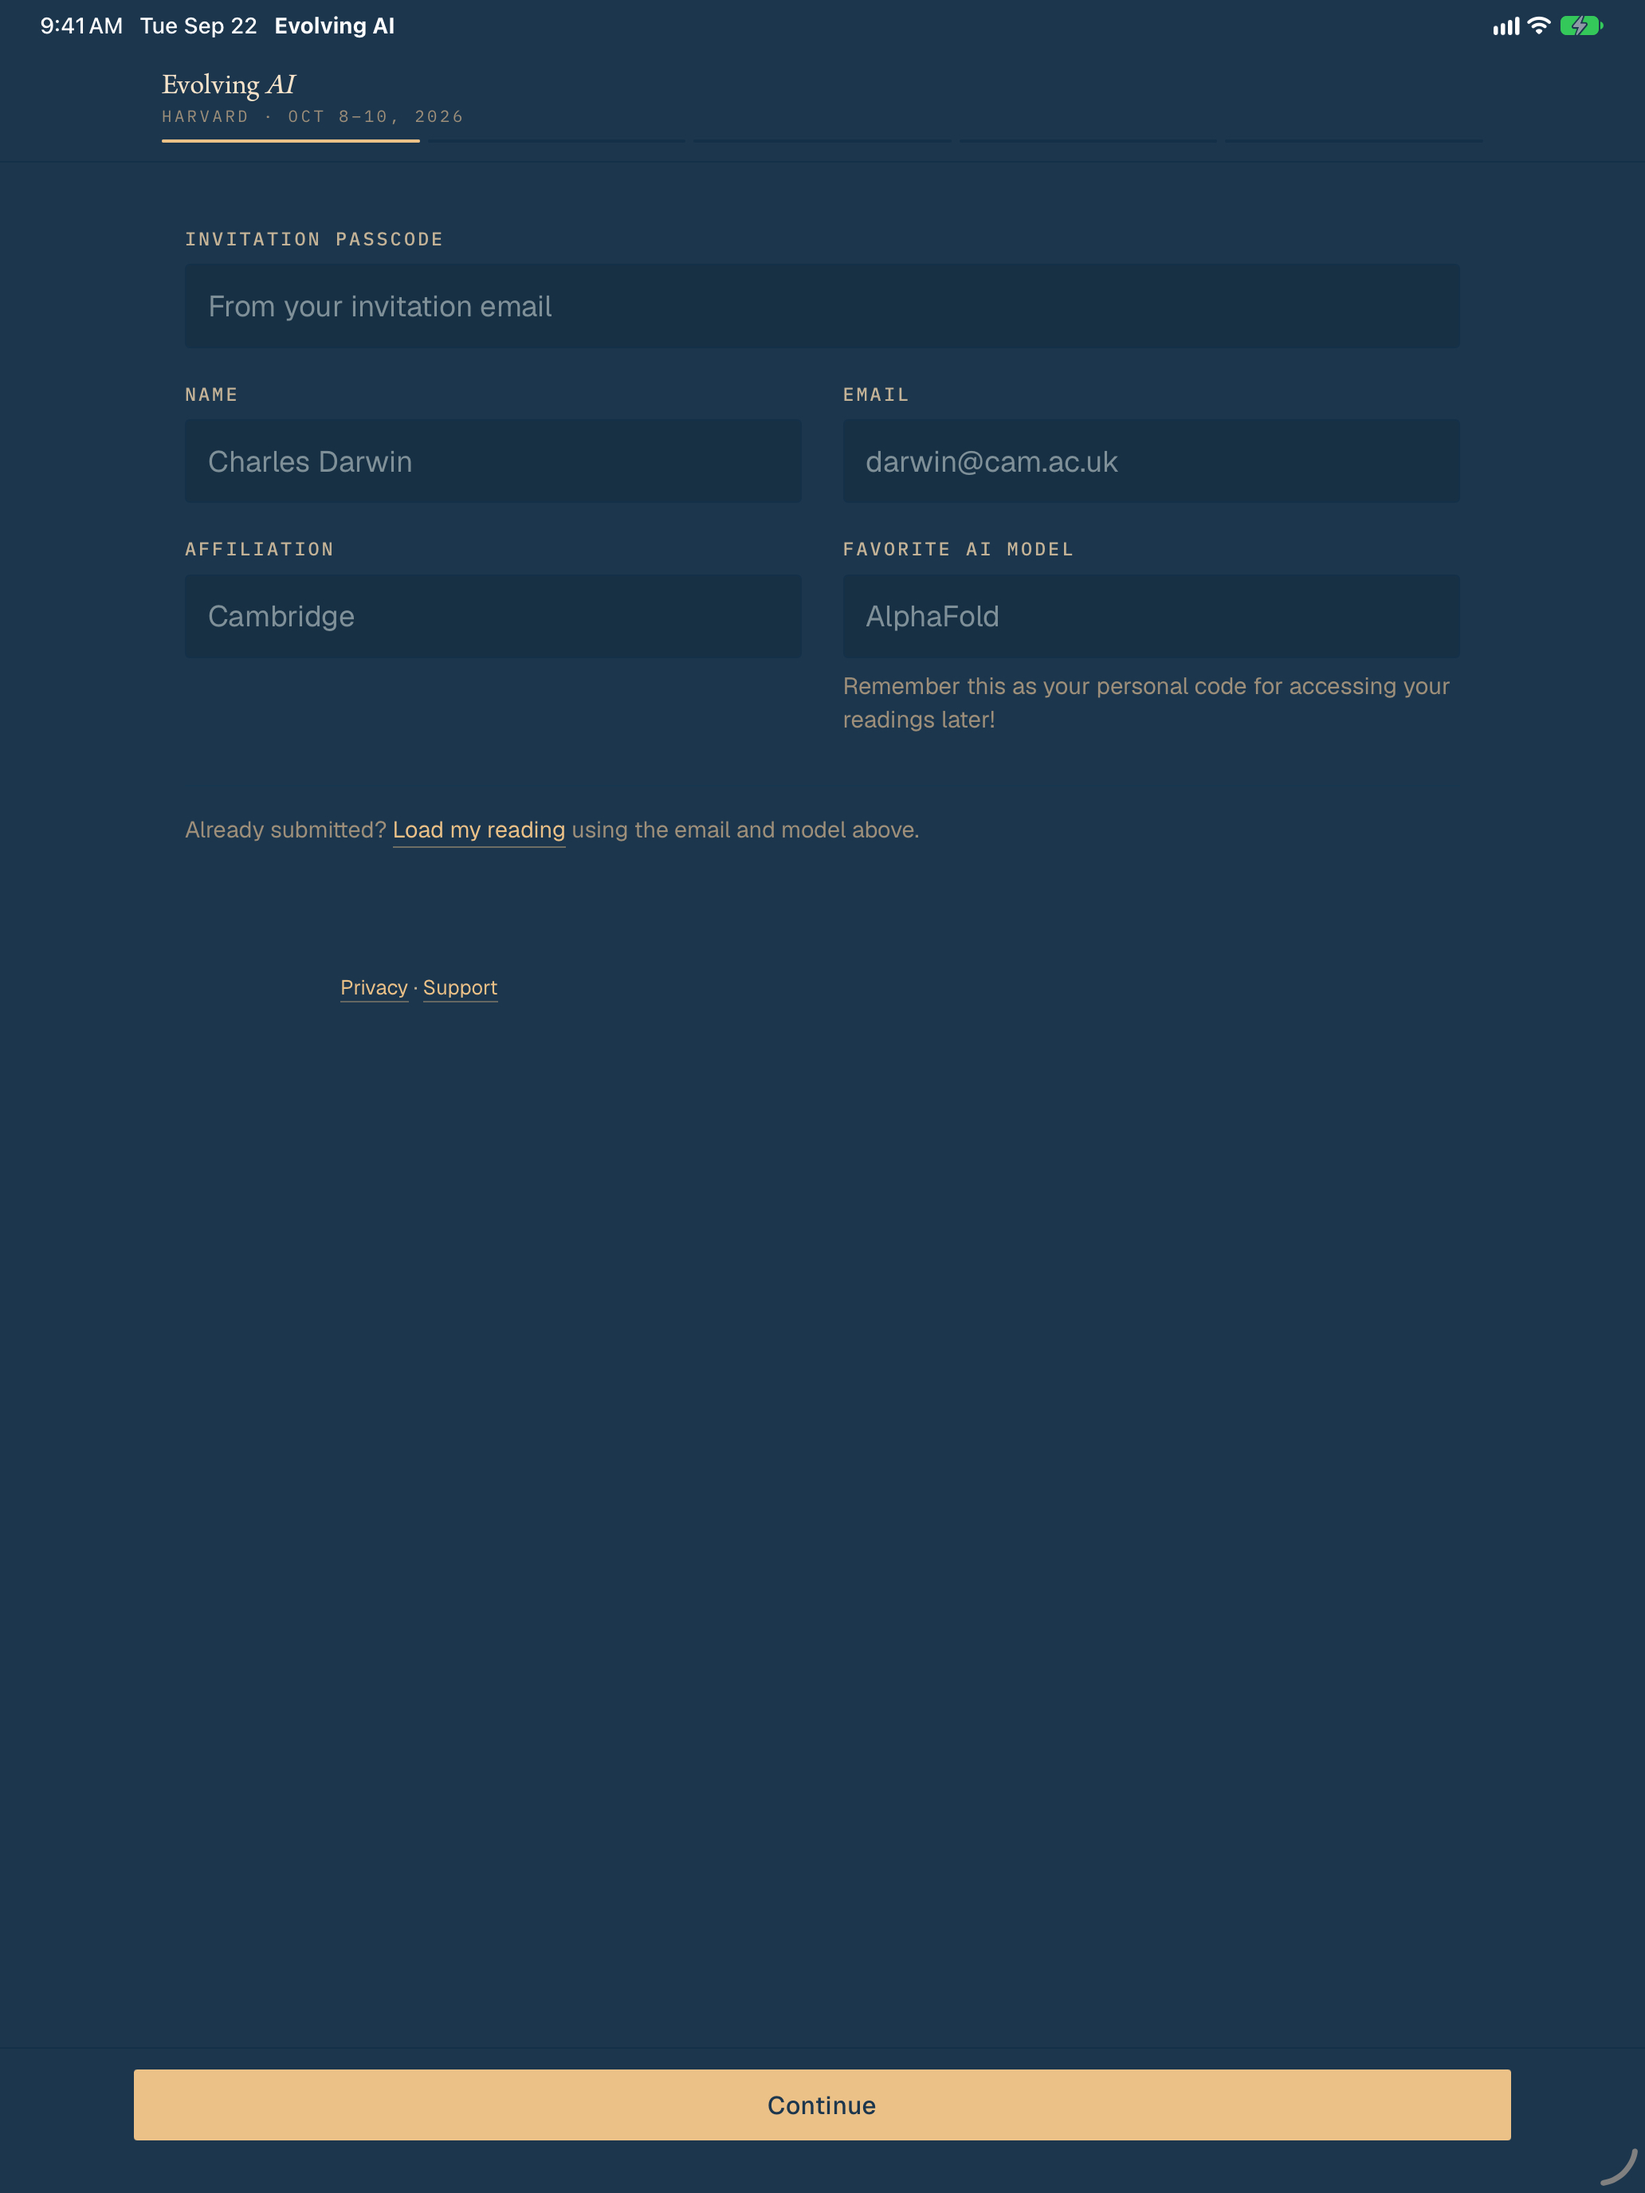
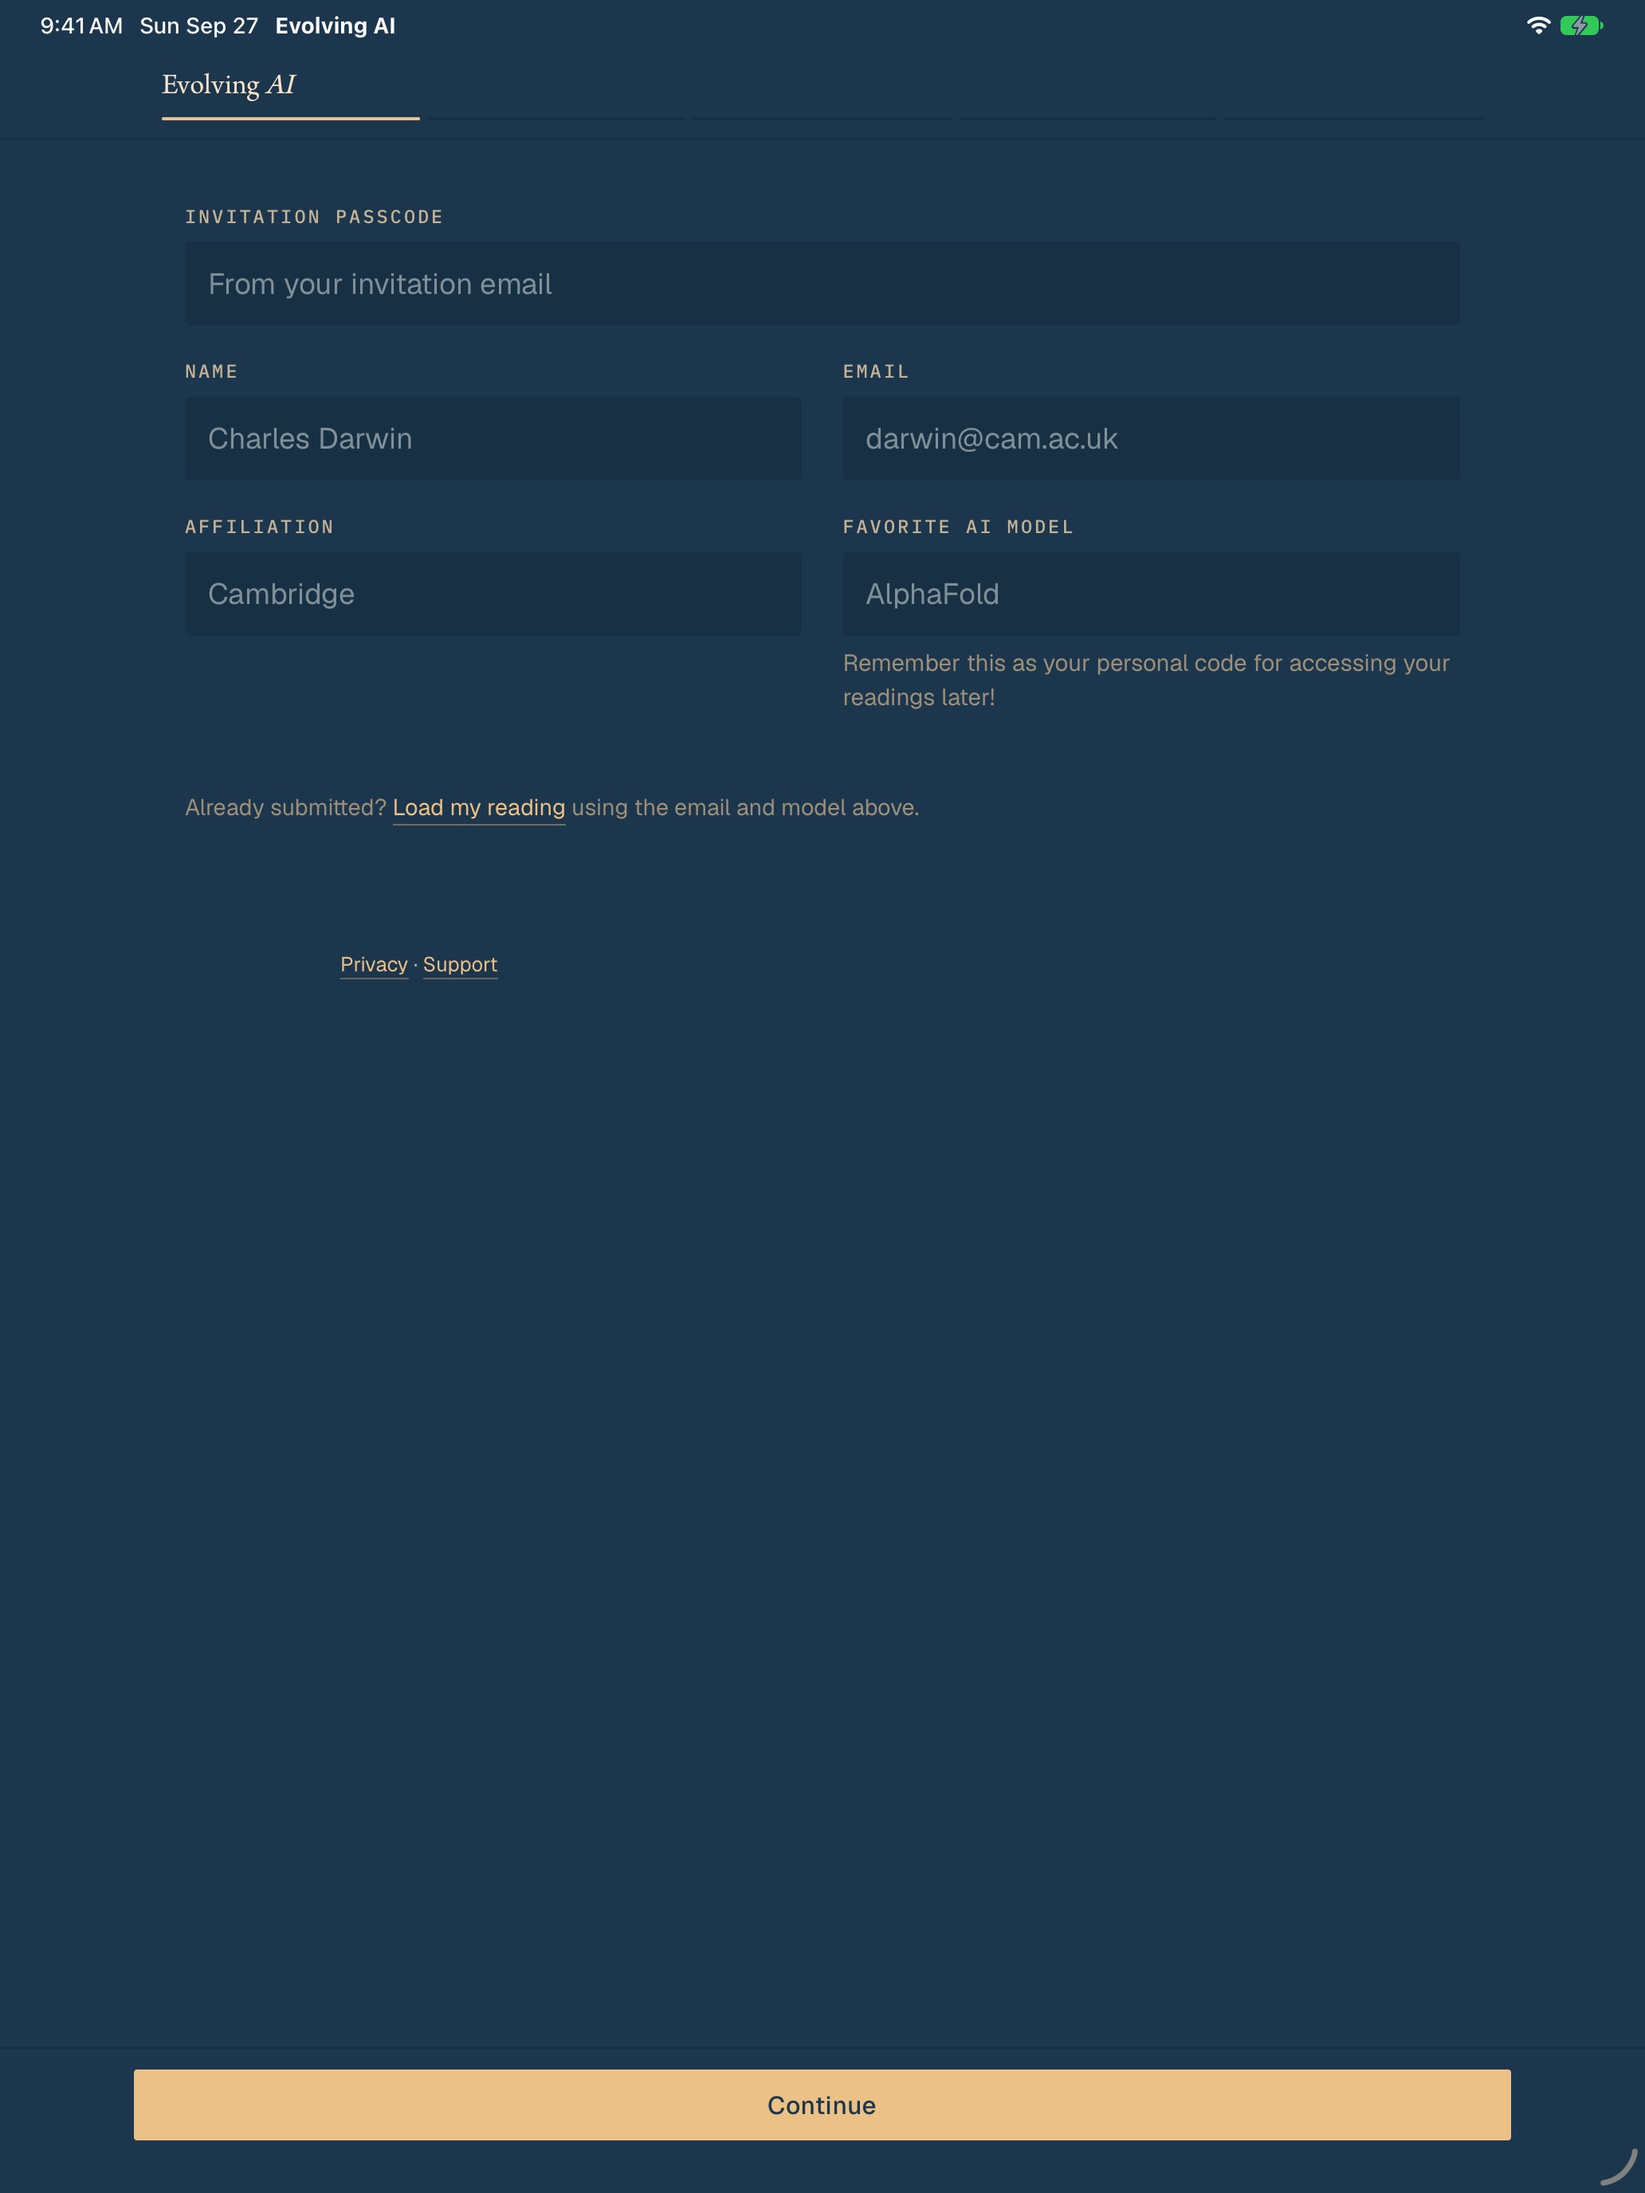
Remove event details from public app surfaces

diff --git a/docs/index.html b/docs/index.html
@@ -11,7 +11,7 @@ if ((location.hostname === "www.benchmark.com" || location.hostname === "benchma
 </script>
 <meta name="viewport" content="width=device-width, initial-scale=1, viewport-fit=cover" />
 <title>Evolving AI Seminar Prep</title>
-<meta name="description" content="Rank three focus areas, submit a question for each, and get your pre-read for the Evolving AI gathering at Harvard, October 8–10, 2026." />
+<meta name="description" content="An invitation-only app for seminar attendees to review readings, save progress, and discuss topics." />
 <meta name="theme-color" content="#1c364e" />
 <meta name="referrer" content="no-referrer" />
 <meta name="apple-mobile-web-app-capable" content="yes" />
@@ -83,8 +83,6 @@ if ((location.hostname === "www.benchmark.com" || location.hostname === "benchma
   .mark em{transition:color .15s ease}
   .mark:hover em{color:var(--accent)}
   .mark em{font-style:italic}
-  .mark span{display:block;font-family:var(--mono);font-size:calc(.56rem * var(--text-scale) + var(--text-add));letter-spacing:.17em;
-    text-transform:uppercase;color:var(--faint);margin-top:.18rem}
   .top-sp{flex:1}
   .ghost{
     font-family:var(--mono);font-size:calc(.6rem * var(--text-scale) + var(--text-add));letter-spacing:.13em;text-transform:uppercase;
@@ -440,7 +438,7 @@ if ((location.hostname === "www.benchmark.com" || location.hostname === "benchma
 <body>
 <div class="top">
   <div class="top-in">
-    <button class="mark" id="homeBtn" type="button" aria-label="Back to the start of the form">Evolving <em>AI</em><span>Harvard · Oct 8–10, 2026</span></button>
+    <button class="mark" id="homeBtn" type="button" aria-label="Back to the start of the form">Evolving <em>AI</em></button>
     <div class="top-sp"></div>
   </div>
   <div class="rail" id="rail" aria-hidden="true"></div>

diff --git a/docs/privacy.html b/docs/privacy.html
@@ -15,7 +15,7 @@
 </style>
 </head>
 <body>
-<p class="eyebrow">Evolving AI · Harvard, October 8–10, 2026</p>
+<p class="eyebrow">Evolving AI</p>
 <h1>Privacy policy</h1>
 <p>Effective September 22, 2026. This policy covers the Evolving AI website and iPhone and iPad app used to prepare for the gathering.</p>
 

diff --git a/docs/support.html b/docs/support.html
@@ -15,7 +15,7 @@
 </style>
 </head>
 <body>
-<p class="eyebrow">Evolving AI · Harvard, October 8–10, 2026</p>
+<p class="eyebrow">Evolving AI</p>
 <h1>Support</h1>
 <p>For help with the Evolving AI website or iPhone and iPad app, email <a href="mailto:ewang@benchmark.com">ewang@benchmark.com</a>.</p>
 

diff --git a/app-store/listing.md b/app-store/listing.md
@@ -8,9 +8,9 @@
 - SKU: `com.benchmark.evolvingai`
 - Primary language: English (U.S.)
 - Seller team: Erik Wang
-- App Store Connect ID: `6815026303` (Prepare for Submission)
-- Version: 1.0 (build 1 uploaded September 22; processed as Ready to Submit in TestFlight and selected on the version page).
-- Price: Free schedule saved with United States as base region. Release availability is pending organizer choice of regions.
+- App Store Connect ID: `6815026303` (Prepare for Submission as of September 27, 2026)
+- Version: 1.0 (build 5 is selected on the version page; build 6 is signed and ready to upload).
+- Price: Free. Release availability is set to the United States only.
 - Primary category: Education
 - Copyright: © 2026 Erik Wang
 
@@ -20,30 +20,36 @@
 
 **Description:**
 
-Prepare for the Evolving AI gathering at Harvard, October 8–10, 2026.
+An invitation-only app for seminar attendees to review readings, save progress, and discuss topics.
 
-Choose three focus areas, explore a curated reading plan, and submit your questions before the gathering. Return to your reading on another device and join the discussion for each topic after submitting.
-
-An invitation passcode is required to create an attendee entry.
-
-**Keywords:** evolution,artificial intelligence,seminar,readings,discussion,Harvard
+**Keywords:** seminar,readings,discussion
 
 **Support URL:** https://www.benchmark.com/evolving-ai/app/support.html
 
 **Privacy policy URL:** https://www.benchmark.com/evolving-ai/app/privacy.html
 
-**Marketing URL:** https://www.benchmark.com/evolving-ai/app/
+**Marketing URL:** Omitted from the public listing.
 
-**Screenshots:** `screenshots/iphone-6.9-introduction.jpg` (1320 × 2868) and `screenshots/ipad-13-introduction.jpg` (2064 × 2752) are uploaded to the 6.9-inch iPhone and 13-inch iPad sets. Both are captures from the iPhone 18 Pro Max and iPad Pro 13-inch simulators running an earlier Release build, converted to JPEG because App Store Connect rejects alpha channels. Additional genuine screens of the final reading and discussion experience would improve the listing.
+**Screenshots:** `screenshots/iphone-6.9-introduction.jpg` (1320 × 2868) and `screenshots/ipad-13-introduction.jpg` (2064 × 2752) are captures from clean iPhone 18 Pro Max and iPad Pro 13-inch simulators running build 6. They have no attendee data or event location/date in app content and were converted to JPEG for App Store Connect. The older screenshots are still uploaded and must be replaced before submission.
 
 ## App Review information
 
-The review contact name is Erik Wang and the organizer-provided phone number is saved in Apple's private field. A synthetic review account exists in the production Sheet; the organizer's specific approval to share its access details with Apple is pending. Do not put credentials in this repository or public listing. Generic reviewer instructions are saved in Apple's private Notes field. The organizer console is reached by a long press on the wordmark. Manual release and build 1 are selected. Content Rights remains unfinished pending an organizer attestation.
+The review contact name is Erik Wang and the organizer-provided phone number is saved in Apple's private field. A synthetic review account exists in the production Sheet; its access details are saved in Apple's private App Review fields with organizer approval. Do not put credentials in this repository or public listing. Short reviewer instructions are saved in Apple's private Notes field: enter the demo email and favorite-model answer, tap “Load my reading,” and use the synthetic discussion content. The organizer console is reached by a long press on the wordmark. Manual release and build 5 are selected pending build 6 processing. Content Rights is set to the organizer-approved declaration that the app has the necessary rights to third-party content.
 
 ## Privacy questionnaire notes
 
-The app collects a name, email address, affiliation, topic choices, written questions, optional work details, discussion posts, reports, block choices, and debrief responses. These are tied to an attendee's submission. The organizer can see the full submission; signed-in attendees can see names, affiliations, questions, and posts in discussion. No advertising or analytics SDK is included. App Store Connect has draft answers for Name, Email Address, Other User Content, and Product Interaction, all linked to identity for app functionality and not used for tracking. The answers have not been published.
+The app collects a name, email address, affiliation, topic choices, written questions, optional work details, discussion posts, reports, block choices, and debrief responses. These are tied to an attendee's submission. The organizer can see the full submission; signed-in attendees can see names, affiliations, questions, and posts in discussion. No advertising or analytics SDK is included. App Store Connect has draft answers for Name, Email Address, Other User Content, and Product Interaction, all linked to identity for app functionality and not used for tracking. The organizer directed on September 27 to leave these answers unpublished. Apple's Add for Review validation then rejected the version with: “Before you can submit this app for review, an Admin must provide information about the app’s privacy practices in the App Privacy section.” Version 1.0 remains Prepare for Submission.
 
 ## Retention task
 
-The organizer committed to removing submissions, discussion posts, reports, block choices, and debrief responses from the active Google Sheet by November 10, 2026. Confirm deletion and then update the privacy page if the policy changes. Also check copies exported from the organizer console.
+Online access closes November 10, 2026. The organizer chose to retain attendee data in the active Google Sheet until they explicitly request removal. No automatic deletion is scheduled; the published privacy page reflects this policy. Also check any copies exported from the organizer console when removal is requested.
+
+## September 27 verification
+
+The 82 local tests passed, an unsigned iOS Simulator Release build succeeded, and Xcode's Run command built and launched the current project for iPhone 18 Pro without a reported build error. The Simulator window was unavailable to the computer-use surface, so this does not establish a fresh touch-driven sign-in or discussion test. No new build was uploaded; App Store Connect still selects build 5.
+
+On September 27, fresh downloads of the public `index.html`, `privacy.html`, `support.html`, and `sw.js` matched their `docs/` source files byte for byte by SHA-256. The September 22 upload audit recorded build 5's bundled `index.html` and `privacy.html` hashes as identical to those same source hashes. The original build 5 export is no longer available locally for an independent binary recheck.
+
+## Build 6 preparation, September 27
+
+The event location and dates were removed from the app header, public HTML metadata, and privacy/support page headers. The November 10 closure and retention terms remain in the privacy policy. All 82 tests passed. A Release Simulator build succeeded, and the clean iPhone and iPad screens were captured from the updated app. A Release device archive was exported through Xcode with Apple Distribution signing. The exported IPA passes `codesign --verify --deep --strict`; its bundle ID is `com.benchmark.evolvingai`, team `C5Z9736LG7`, version/build `1.0/6`. Its `index.html`, `privacy.html`, `support.html`, and `sw.js` are byte-identical to `docs/`; the backend script is absent from the IPA. The website has not yet been deployed and build 6 has not yet been uploaded to App Store Connect.
